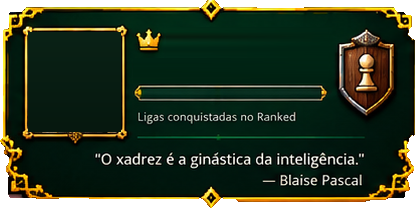
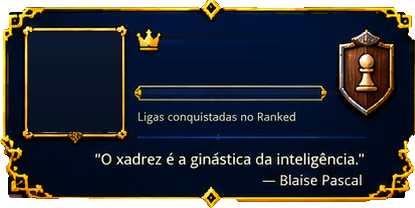
R114: lobby (Home) em azul — botões do menu, cartão do jogador, SEJA MEMBRO, CONVIDADO e barra do celular (a floresta continua verde)
Claude-Session: https://claude.ai/code/session_016vKvXoMfUjcNC2AWvYdkWV

Changed region(s): [[0.0578, 0.0577, 0.8964, 0.6923], [0.2892, 0.6058, 0.3181, 0.6346], [0.0289, 0.4615, 0.0578, 0.4904]]

diff --git a/tools/art/lobby_azul_r114.py b/tools/art/lobby_azul_r114.py
@@ -1,0 +1,34 @@
+#!/usr/bin/env python3
+"""R114 · lobby (Home) em azul: só as áreas dos botões/cartões da arte da Home (a floresta fica verde).
+Usa a mesma regra de tools/art/verde_para_azul.py. Rodar uma vez (grava por cima; o original fica no git)."""
+import importlib.util, os, numpy as np
+from PIL import Image
+here = os.path.dirname(os.path.abspath(__file__))
+spec = importlib.util.spec_from_file_location('v', os.path.join(here, 'verde_para_azul.py')); v = importlib.util.module_from_spec(spec); spec.loader.exec_module(v)
+
+def rec(a):
+    rgb = a[..., :3]; h, s, val = v.rgb_to_hsv(rgb)
+    w = np.clip((h - v.LO0) / (v.LO1 - v.LO0), 0, 1) * np.clip((v.HI0 - h) / (v.HI0 - v.HI1), 0, 1) * np.clip((s - v.S_MIN) / 0.08, 0, 1)
+    v2 = np.clip(val * (1 + v.V_LIFT * (1 - val)), 0, 1)
+    new = v.hsv_to_rgb(np.full_like(h, v.H_TARGET), s, v2)
+    a[..., :3] = rgb * (1 - w[..., None]) + new * w[..., None]
+
+def regions(path, boxes, scale=1.0, dx=0):
+    im = Image.open(path); mode = im.mode
+    a = np.asarray(im.convert('RGBA')).astype(float) / 255
+    for x0, y0, x1, y1 in boxes:
+        X0, Y0, X1, Y1 = [int(round(c * scale)) for c in (x0, y0, x1, y1)]
+        sub = a[Y0:Y1, X0 + dx:X1 + dx].copy(); rec(sub); a[Y0:Y1, X0 + dx:X1 + dx] = sub
+    out = Image.fromarray((a * 255 + .5).clip(0, 255).astype(np.uint8), 'RGBA')
+    (out if mode == 'RGBA' else out.convert('RGB')).save(path, optimize=True)
+    print('ok', path)
+
+PC = [(15, 10, 770, 82), (595, 255, 1058, 880), (1205, 35, 1662, 242), (25, 840, 368, 928)]
+CEL = [(5, 18, 428, 70), (48, 243, 382, 350), (52, 355, 380, 690), (3, 845, 428, 928)]
+A = 'ui_v022/assets/'
+regions(A + 'home_forest_v9.png', PC)
+regions(A + 'home_forest_v9_wide.png', PC, dx=84)
+regions(A + 'home_mobile_v8.png', CEL, scale=854 / 430)
+for f in [A + 'menu_atlas.png', 'ui_v022/art/home_profile_frame.png', 'ui_v022/art/home_profile_under.png', A + 'home_account_plaque.png',
+          A + 'home_profile_card.png', A + 'home_ranked_row.png', A + 'home_row_blank.png', A + 'home_row_marcha.png', A + 'home_row_xeque.png', A + 'r86/escudo_vazio.png']:
+    print('%5.1f%%  %s' % (100 * v.convert(f), f))
